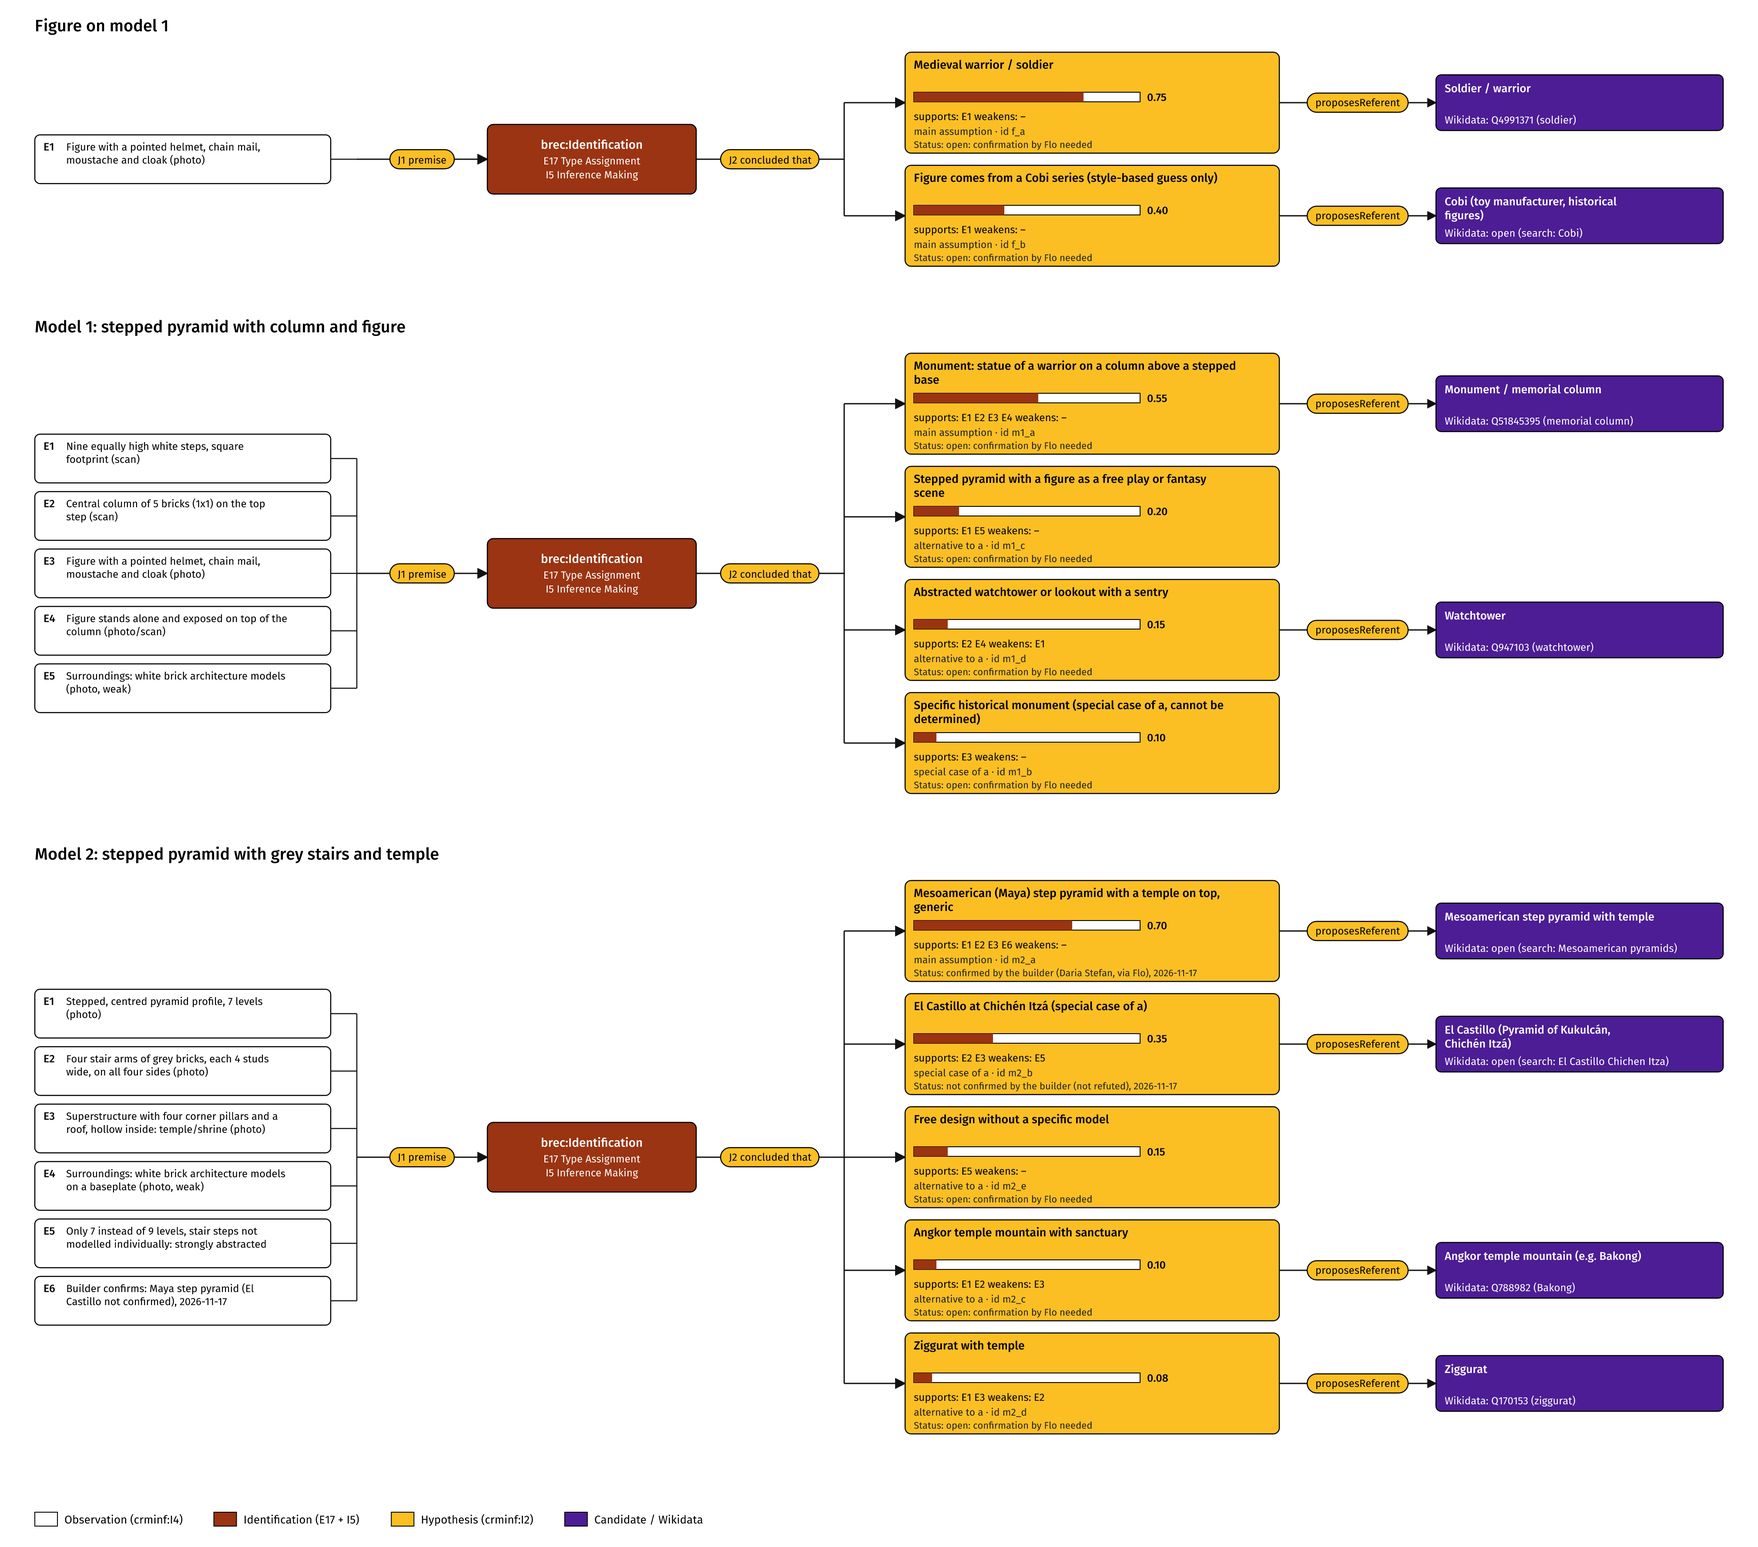
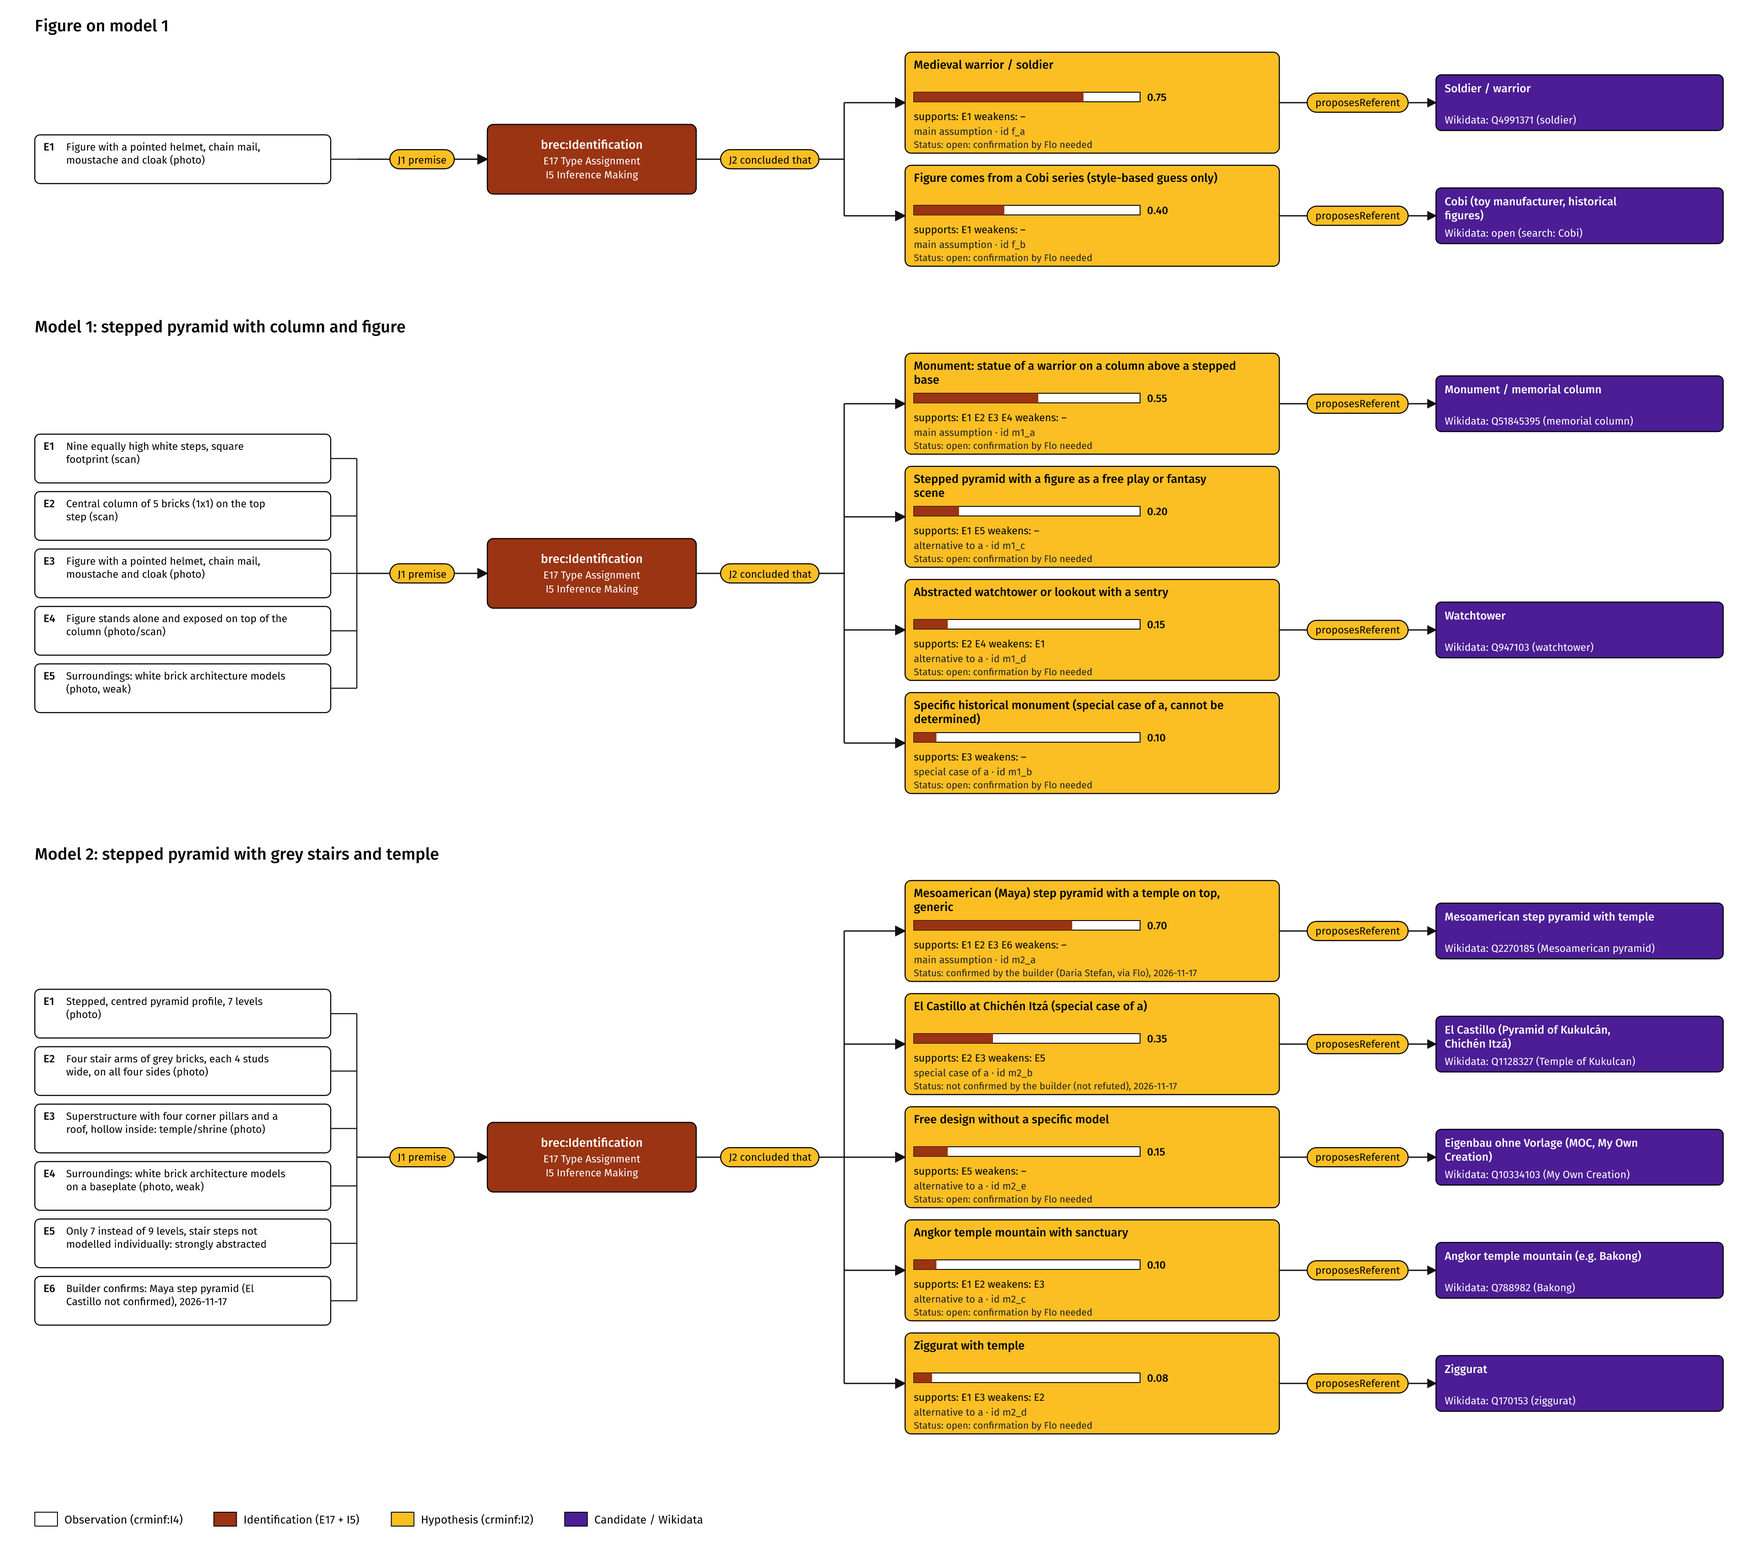
Add a MOC candidate for the free-design hypothesis of pyramid 2
The hypothesis ex:hyp_m2_e had no candidate referent. ex:c_moc maps to Wikidata Q10334103, so every hypothesis of pyramid 2 now resolves to a Wikidata item.

Regenerated documentation, graph and figures.

Changed region(s): [[0.7485, 0.7179, 0.998, 0.7804]]

diff --git a/docs/instances.html b/docs/instances.html
@@ -1,1 +1,1 @@
-<!doctype html><html lang="en"><head><meta charset="utf-8"><meta name="viewport" content="width=device-width,initial-scale=1"><title>Instance models | BREC</title><link rel="stylesheet" href="assets/site.css?v=a28f7c07"></head><body><nav><div class=grp><span class=lab>Documentation</span><span class=lnk><a href="index.html">Overview</a><a href="ontology.html">Data model</a><a href="coverage.html">CRM coverage</a><a href="crosswalk.html">Crosswalk</a><a href="bricks.html">Bricks (MBO)</a></span></div><div class=grp><span class=lab>Data and tools</span><span class=lnk><a href="instances.html" class=on>Instance models</a><a href="fdox.html">FDOx</a><a href="sparql.html">SPARQL</a><a href="viewer.html">3D viewer</a></span></div><div class=grp><span class=lab>Figures</span><span class=lnk><a href="visuals.html">All figures</a><a href="visuals-picture.html">Big picture</a><a href="visuals-model.html">Data model</a><a href="visuals-crm.html">CIDOC CRM</a><a href="visuals-pyramids.html">Pyramids</a></span></div></nav><main><h1>Instance models</h1><section><p>The two LEGO pyramids as nodes of the graph: who built them, how they were scanned, which records carry the scan and the reconstruction, and what they were identified as. All values are read from the merged graph and the registry pins.</p></section><section><h2>Pyramid 1</h2><table><tr><th>Model</th><td>LEGO model 1: white stepped pyramid with column and figure</td></tr><tr><th>Built by</th><td>Flo (RSE, LEIZA)</td></tr><tr><th>Scan</th><td>69 photos, Samsung Galaxy S26; KIRI Engine (SfM), scan at 15:46; app version not shown</td></tr><tr><th>Place</th><td>Apothekertrakt, Schönbrunn Palace, Vienna (<a href="http://www.wikidata.org/entity/Q131330">Q131330</a>)</td></tr><tr><th>Reconstruction</th><td>Reconstruction model 1 (lego.glb)</td></tr><tr><th>FDOx: scan</th><td>Lego Pyramid (KIRI Original): <a href="https://doi.org/10.5281/zenodo.24305240">10.5281/zenodo.24305240</a> (pinned version <a href="https://doi.org/10.5281/zenodo.24305241">v1</a>)</td></tr><tr><th>FDOx: reconstruction</th><td>Lego Pyramid (Reconstruction claude.ai): <a href="https://doi.org/10.5281/zenodo.24305343">10.5281/zenodo.24305343</a> (pinned version <a href="https://doi.org/10.5281/zenodo.24305344">v1</a>)</td></tr><tr><th>Identification</th><td><strong>Identification of model 1</strong><br>0.55 Monument: statue of a warrior on a column above a stepped base (<a href="http://www.wikidata.org/entity/Q51845395">Q51845395</a>)<br>0.20 Stepped pyramid with a figure as a free play or fantasy scene<br>0.15 Abstracted watchtower or lookout with a sentry (<a href="http://www.wikidata.org/entity/Q947103">Q947103</a>)<br>0.10 Specific historical monument (special case of a, cannot be determined)<br><br><strong>Identification of the figure</strong><br>0.75 Medieval warrior / soldier (<a href="http://www.wikidata.org/entity/Q4991371">Q4991371</a>)<br>0.40 Figure comes from a Cobi series (style-based guess only)</td></tr></table></section><div class=card id=pyramid1><img src="visuals/img/pyramid1.png" width="3500" height="2000" loading="lazy" alt="Pyramid 1: measured, estimated, reconstructed and interpreted"><p><button type=button data-c="Pyramid 1: measured, estimated, reconstructed and interpreted">Copy</button><span class=n>F11</span><span class=cap>Pyramid 1: measured, estimated, reconstructed and interpreted</span></p><p class=muted>Schematic front view; widths follow the studs of the reconstruction. Numbers in the statements are read from the change documentation and the graph; the figure on the column is drawn schematically (own drawing). Source: ontology/brec.ttl and the notes of the repository; Research Squirrel Engineers at LEIZA. <a href="visuals/img/pyramid1.png">PNG</a> · <a href="visuals/img/pyramid1.svg">SVG</a></p></div><section><h2>Pyramid 2</h2><table><tr><th>Model</th><td>LEGO model 2: stepped pyramid with a temple on top</td></tr><tr><th>Built by</th><td>Daria Stefan (TU Wien)</td></tr><tr><th>Scan</th><td>115 photos, Samsung Galaxy A71; KIRI Engine (SfM); app version not shown; scan time not recorded</td></tr><tr><th>Place</th><td>Apothekertrakt, Schönbrunn Palace, Vienna (<a href="http://www.wikidata.org/entity/Q131330">Q131330</a>)</td></tr><tr><th>Reconstruction</th><td>Reconstruction model 2 (version 4)</td></tr><tr><th>FDOx: scan</th><td>Lego Pyramid Maya (KIRI Original): <a href="https://doi.org/10.5281/zenodo.24305428">10.5281/zenodo.24305428</a> (pinned version <a href="https://doi.org/10.5281/zenodo.24310015">v3</a>)</td></tr><tr><th>FDOx: reconstruction</th><td>Lego Pyramid Maya (Reconstruction claude.ai): <a href="https://doi.org/10.5281/zenodo.24305436">10.5281/zenodo.24305436</a> (pinned version <a href="https://doi.org/10.5281/zenodo.24310030">v2</a>)</td></tr><tr><th>Identification</th><td>0.70 Mesoamerican (Maya) step pyramid with a temple on top, generic<br>0.35 El Castillo at Chichén Itzá (special case of a)<br>0.15 Free design without a specific model<br>0.10 Angkor temple mountain with sanctuary (<a href="http://www.wikidata.org/entity/Q788982">Q788982</a>)<br>0.08 Ziggurat with temple (<a href="http://www.wikidata.org/entity/Q170153">Q170153</a>)</td></tr></table></section><div class=card id=pyramid2><img src="visuals/img/pyramid2.png" width="3500" height="2000" loading="lazy" alt="Pyramid 2: measured, estimated, reconstructed and interpreted"><p><button type=button data-c="Pyramid 2: measured, estimated, reconstructed and interpreted">Copy</button><span class=n>F12</span><span class=cap>Pyramid 2: measured, estimated, reconstructed and interpreted</span></p><p class=muted>Schematic front view; stair-arm reach and corner blocks follow the reconstruction (v2 to v4). The builder confirmed the Maya step pyramid on 2026-11-17; El Castillo is not confirmed. Source: ontology/brec.ttl and the notes of the repository; Research Squirrel Engineers at LEIZA. <a href="visuals/img/pyramid2.png">PNG</a> · <a href="visuals/img/pyramid2.svg">SVG</a></p></div></main><footer style="max-width:70rem;margin:2rem auto;padding:0 1rem;font-size:.85em;opacity:.75">Independent research vocabulary. Not affiliated with, authorised or endorsed by the LEGO Group. LEGO is a trademark of the LEGO Group.</footer><script>document.querySelectorAll("button[data-c]").forEach(function(b){b.addEventListener("click",function(){var ok=function(){b.textContent="Copied";setTimeout(function(){b.textContent="Copy"},1200)};if(navigator.clipboard){navigator.clipboard.writeText(b.dataset.c).then(ok).catch(function(){})}})});</script></body></html>
+<!doctype html><html lang="en"><head><meta charset="utf-8"><meta name="viewport" content="width=device-width,initial-scale=1"><title>Instance models | BREC</title><link rel="stylesheet" href="assets/site.css?v=a28f7c07"></head><body><nav><div class=grp><span class=lab>Documentation</span><span class=lnk><a href="index.html">Overview</a><a href="ontology.html">Data model</a><a href="coverage.html">CRM coverage</a><a href="crosswalk.html">Crosswalk</a><a href="bricks.html">Bricks (MBO)</a></span></div><div class=grp><span class=lab>Data and tools</span><span class=lnk><a href="instances.html" class=on>Instance models</a><a href="fdox.html">FDOx</a><a href="sparql.html">SPARQL</a><a href="viewer.html">3D viewer</a></span></div><div class=grp><span class=lab>Figures</span><span class=lnk><a href="visuals.html">All figures</a><a href="visuals-picture.html">Big picture</a><a href="visuals-model.html">Data model</a><a href="visuals-crm.html">CIDOC CRM</a><a href="visuals-pyramids.html">Pyramids</a></span></div></nav><main><h1>Instance models</h1><section><p>The two LEGO pyramids as nodes of the graph: who built them, how they were scanned, which records carry the scan and the reconstruction, and what they were identified as. All values are read from the merged graph and the registry pins.</p></section><section><h2>Pyramid 1</h2><table><tr><th>Model</th><td>LEGO model 1: white stepped pyramid with column and figure</td></tr><tr><th>Built by</th><td>Flo (RSE, LEIZA)</td></tr><tr><th>Scan</th><td>69 photos, Samsung Galaxy S26; KIRI Engine (SfM), scan at 15:46; app version not shown</td></tr><tr><th>Place</th><td>Apothekertrakt, Schönbrunn Palace, Vienna (<a href="http://www.wikidata.org/entity/Q131330">Q131330</a>)</td></tr><tr><th>Reconstruction</th><td>Reconstruction model 1 (lego.glb)</td></tr><tr><th>FDOx: scan</th><td>Lego Pyramid (KIRI Original): <a href="https://doi.org/10.5281/zenodo.24305240">10.5281/zenodo.24305240</a> (pinned version <a href="https://doi.org/10.5281/zenodo.24305241">v1</a>)</td></tr><tr><th>FDOx: reconstruction</th><td>Lego Pyramid (Reconstruction claude.ai): <a href="https://doi.org/10.5281/zenodo.24305343">10.5281/zenodo.24305343</a> (pinned version <a href="https://doi.org/10.5281/zenodo.24305344">v1</a>)</td></tr><tr><th>Identification</th><td><strong>Identification of model 1</strong><br>0.55 Monument: statue of a warrior on a column above a stepped base (<a href="http://www.wikidata.org/entity/Q51845395">Q51845395</a>)<br>0.20 Stepped pyramid with a figure as a free play or fantasy scene<br>0.15 Abstracted watchtower or lookout with a sentry (<a href="http://www.wikidata.org/entity/Q947103">Q947103</a>)<br>0.10 Specific historical monument (special case of a, cannot be determined)<br><br><strong>Identification of the figure</strong><br>0.75 Medieval warrior / soldier (<a href="http://www.wikidata.org/entity/Q4991371">Q4991371</a>)<br>0.40 Figure comes from a Cobi series (style-based guess only)</td></tr></table></section><div class=card id=pyramid1><img src="visuals/img/pyramid1.png" width="3500" height="2000" loading="lazy" alt="Pyramid 1: measured, estimated, reconstructed and interpreted"><p><button type=button data-c="Pyramid 1: measured, estimated, reconstructed and interpreted">Copy</button><span class=n>F11</span><span class=cap>Pyramid 1: measured, estimated, reconstructed and interpreted</span></p><p class=muted>Schematic front view; widths follow the studs of the reconstruction. Numbers in the statements are read from the change documentation and the graph; the figure on the column is drawn schematically (own drawing). Source: ontology/brec.ttl and the notes of the repository; Research Squirrel Engineers at LEIZA. <a href="visuals/img/pyramid1.png">PNG</a> · <a href="visuals/img/pyramid1.svg">SVG</a></p></div><section><h2>Pyramid 2</h2><table><tr><th>Model</th><td>LEGO model 2: stepped pyramid with a temple on top</td></tr><tr><th>Built by</th><td>Daria Stefan (TU Wien)</td></tr><tr><th>Scan</th><td>115 photos, Samsung Galaxy A71; KIRI Engine (SfM); app version not shown; scan time not recorded</td></tr><tr><th>Place</th><td>Apothekertrakt, Schönbrunn Palace, Vienna (<a href="http://www.wikidata.org/entity/Q131330">Q131330</a>)</td></tr><tr><th>Reconstruction</th><td>Reconstruction model 2 (version 4)</td></tr><tr><th>FDOx: scan</th><td>Lego Pyramid Maya (KIRI Original): <a href="https://doi.org/10.5281/zenodo.24305428">10.5281/zenodo.24305428</a> (pinned version <a href="https://doi.org/10.5281/zenodo.24310015">v3</a>)</td></tr><tr><th>FDOx: reconstruction</th><td>Lego Pyramid Maya (Reconstruction claude.ai): <a href="https://doi.org/10.5281/zenodo.24305436">10.5281/zenodo.24305436</a> (pinned version <a href="https://doi.org/10.5281/zenodo.24310030">v2</a>)</td></tr><tr><th>Identification</th><td>0.70 Mesoamerican (Maya) step pyramid with a temple on top, generic (<a href="http://www.wikidata.org/entity/Q2270185">Q2270185</a>)<br>0.35 El Castillo at Chichén Itzá (special case of a) (<a href="http://www.wikidata.org/entity/Q1128327">Q1128327</a>)<br>0.15 Free design without a specific model (<a href="http://www.wikidata.org/entity/Q10334103">Q10334103</a>)<br>0.10 Angkor temple mountain with sanctuary (<a href="http://www.wikidata.org/entity/Q788982">Q788982</a>)<br>0.08 Ziggurat with temple (<a href="http://www.wikidata.org/entity/Q170153">Q170153</a>)</td></tr></table></section><div class=card id=pyramid2><img src="visuals/img/pyramid2.png" width="3500" height="2000" loading="lazy" alt="Pyramid 2: measured, estimated, reconstructed and interpreted"><p><button type=button data-c="Pyramid 2: measured, estimated, reconstructed and interpreted">Copy</button><span class=n>F12</span><span class=cap>Pyramid 2: measured, estimated, reconstructed and interpreted</span></p><p class=muted>Schematic front view; stair-arm reach and corner blocks follow the reconstruction (v2 to v4). The builder confirmed the Maya step pyramid on 2026-11-17; El Castillo is not confirmed. Source: ontology/brec.ttl and the notes of the repository; Research Squirrel Engineers at LEIZA. <a href="visuals/img/pyramid2.png">PNG</a> · <a href="visuals/img/pyramid2.svg">SVG</a></p></div></main><footer style="max-width:70rem;margin:2rem auto;padding:0 1rem;font-size:.85em;opacity:.75">Independent research vocabulary. Not affiliated with, authorised or endorsed by the LEGO Group. LEGO is a trademark of the LEGO Group.</footer><script>document.querySelectorAll("button[data-c]").forEach(function(b){b.addEventListener("click",function(){var ok=function(){b.textContent="Copied";setTimeout(function(){b.textContent="Copy"},1200)};if(navigator.clipboard){navigator.clipboard.writeText(b.dataset.c).then(ok).catch(function(){})}})});</script></body></html>

diff --git a/docs/index.html b/docs/index.html
@@ -1,2 +1,2 @@
-<!doctype html><html lang="en"><head><meta charset="utf-8"><meta name="viewport" content="width=device-width,initial-scale=1"><title>BREC | BREC</title><link rel="stylesheet" href="assets/site.css?v=a28f7c07"></head><body><nav><div class=grp><span class=lab>Documentation</span><span class=lnk><a href="index.html" class=on>Overview</a><a href="ontology.html">Data model</a><a href="coverage.html">CRM coverage</a><a href="crosswalk.html">Crosswalk</a><a href="bricks.html">Bricks (MBO)</a></span></div><div class=grp><span class=lab>Data and tools</span><span class=lnk><a href="instances.html">Instance models</a><a href="fdox.html">FDOx</a><a href="sparql.html">SPARQL</a><a href="viewer.html">3D viewer</a></span></div><div class=grp><span class=lab>Figures</span><span class=lnk><a href="visuals.html">All figures</a><a href="visuals-picture.html">Big picture</a><a href="visuals-model.html">Data model</a><a href="visuals-crm.html">CIDOC CRM</a><a href="visuals-pyramids.html">Pyramids</a></span></div></nav><main><h1>BREC: Brick Reconstruction Ontology</h1><p class=muted>Release 0.5.0</p><section><p>From a structure-from-motion scan of a LEGO model to an idealised brick reconstruction, its documentation and its interpretation, modelled with CIDOC CRM (+ CRMdig, CRMinf), PROV-O, DCAT, DQV, OWL-Time, GeoSPARQL, SKOS and Wikidata.</p><p>722 triples, 23 BREC classes, 16 own properties. German and English labels.</p><p><a href="brec.ttl">brec.ttl</a> · <a href="notes/BREC_en.md">BREC (English)</a> · <a href="notes/BREC.md">BREC (Deutsch)</a> · <a href="notes/FDOx_Pyramiden_Metadaten.md">FDOx metadata (Deutsch)</a> · <a href="notes/aenderungen_en.md">What changed from scan to reconstruction</a></p></section><section><h2>Pipeline</h2><pre>scan (KIRI) -> measurement -> reconstruction (bricks, GLB) -> interpretation -> FDOx (Zenodo)
+<!doctype html><html lang="en"><head><meta charset="utf-8"><meta name="viewport" content="width=device-width,initial-scale=1"><title>BREC | BREC</title><link rel="stylesheet" href="assets/site.css?v=a28f7c07"></head><body><nav><div class=grp><span class=lab>Documentation</span><span class=lnk><a href="index.html" class=on>Overview</a><a href="ontology.html">Data model</a><a href="coverage.html">CRM coverage</a><a href="crosswalk.html">Crosswalk</a><a href="bricks.html">Bricks (MBO)</a></span></div><div class=grp><span class=lab>Data and tools</span><span class=lnk><a href="instances.html">Instance models</a><a href="fdox.html">FDOx</a><a href="sparql.html">SPARQL</a><a href="viewer.html">3D viewer</a></span></div><div class=grp><span class=lab>Figures</span><span class=lnk><a href="visuals.html">All figures</a><a href="visuals-picture.html">Big picture</a><a href="visuals-model.html">Data model</a><a href="visuals-crm.html">CIDOC CRM</a><a href="visuals-pyramids.html">Pyramids</a></span></div></nav><main><h1>BREC: Brick Reconstruction Ontology</h1><p class=muted>Release 0.5.0</p><section><p>From a structure-from-motion scan of a LEGO model to an idealised brick reconstruction, its documentation and its interpretation, modelled with CIDOC CRM (+ CRMdig, CRMinf), PROV-O, DCAT, DQV, OWL-Time, GeoSPARQL, SKOS and Wikidata.</p><p>726 triples, 23 BREC classes, 16 own properties. German and English labels.</p><p><a href="brec.ttl">brec.ttl</a> · <a href="notes/BREC_en.md">BREC (English)</a> · <a href="notes/BREC.md">BREC (Deutsch)</a> · <a href="notes/FDOx_Pyramiden_Metadaten.md">FDOx metadata (Deutsch)</a> · <a href="notes/aenderungen_en.md">What changed from scan to reconstruction</a></p></section><section><h2>Pipeline</h2><pre>scan (KIRI) -> measurement -> reconstruction (bricks, GLB) -> interpretation -> FDOx (Zenodo)
 main.py: check -> reconstruct -> figures -> pages</pre></section></main><footer style="max-width:70rem;margin:2rem auto;padding:0 1rem;font-size:.85em;opacity:.75">Independent research vocabulary. Not affiliated with, authorised or endorsed by the LEGO Group. LEGO is a trademark of the LEGO Group.</footer><script>document.querySelectorAll("button[data-c]").forEach(function(b){b.addEventListener("click",function(){var ok=function(){b.textContent="Copied";setTimeout(function(){b.textContent="Copy"},1200)};if(navigator.clipboard){navigator.clipboard.writeText(b.dataset.c).then(ok).catch(function(){})}})});</script></body></html>
